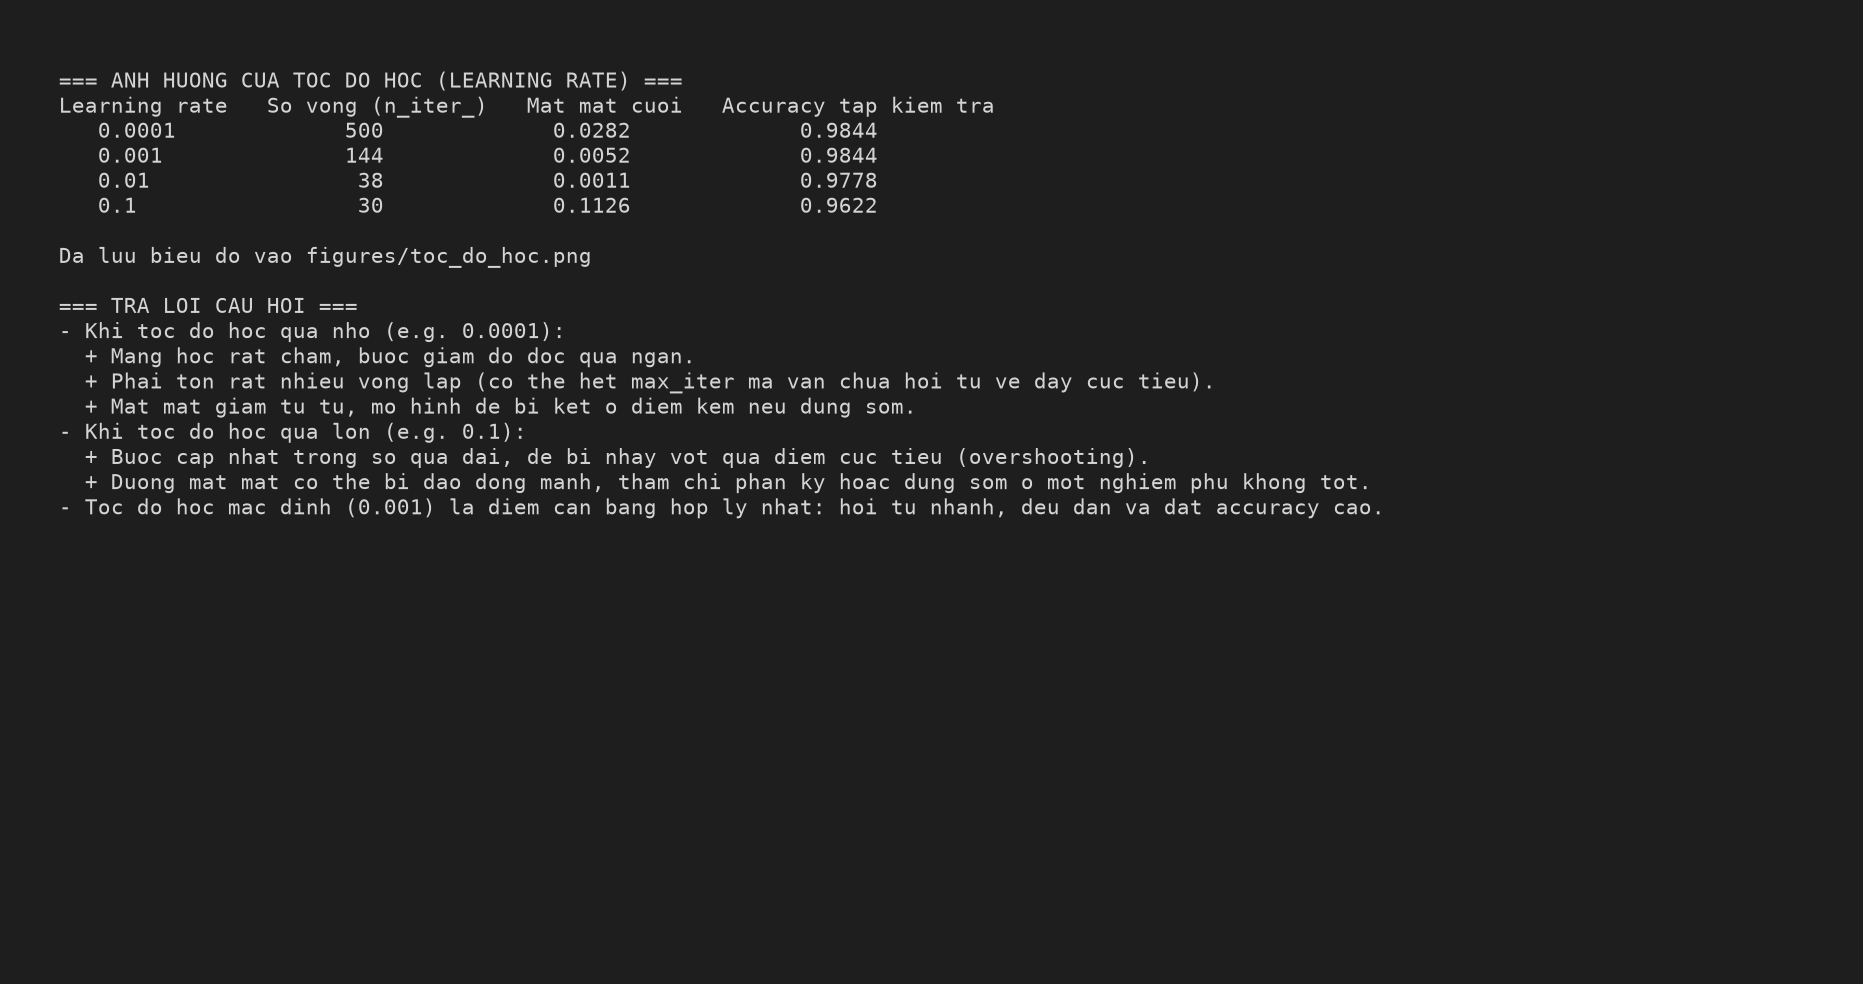
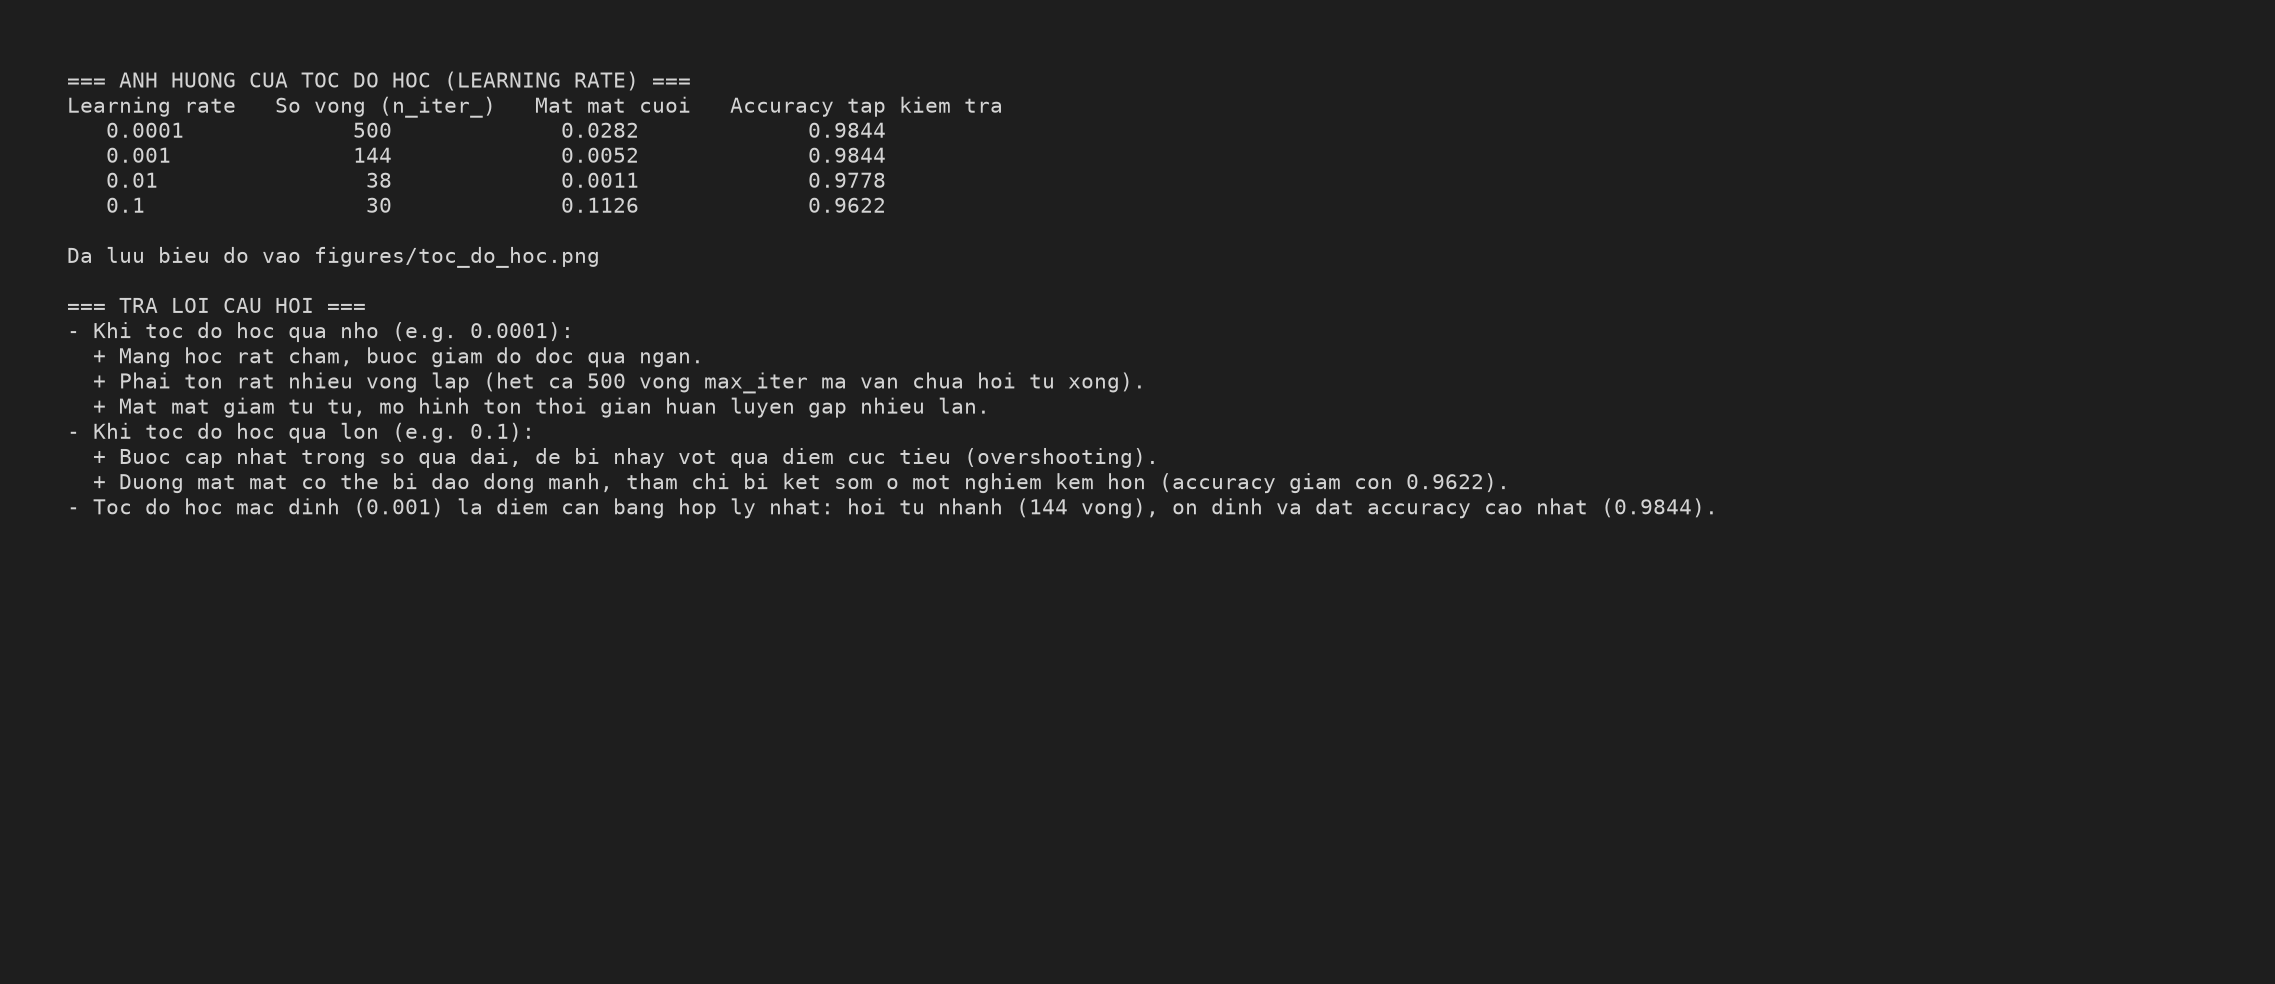
Bo sung sua doi va hoan thien ket qua nhan xet cho Lab 7, 8, 9

Changed region(s): [[0.0311, 0.3049, 0.7472, 0.5488], [0.0311, 0.061, 0.5293, 0.2134], [0.0311, 0.2439, 0.3113, 0.2744]]

diff --git a/MayHoc/bai08_kmeans/baitap08/bai5.py b/MayHoc/bai08_kmeans/baitap08/bai5.py
@@ -25,19 +25,37 @@ for e in [0.2, 0.3, 0.4]:
     so_cum = len(cac_cum)
     so_nhieu = np.sum(nhan == -1)
 
-    # Tính độ khớp với nhãn thật (chỉ tính trên các điểm không phải nhiễu hoặc toàn bộ)
     khop = (nhan == y_that).mean()
     do_khop = max(khop, 1 - khop)
     print(f"  {e:.1f}      {so_cum:2d}           {so_nhieu:3d}                 {do_khop:.4f}")
 
+# Khảo sát thêm giá trị eps tinh chỉnh để thấy rõ khả năng của DBSCAN
+print("\n--- KHAO SAT BO SUNG GIA TRI EPS PHU HOP HON ---")
+for e in [0.21, 0.22]:
+    db = DBSCAN(eps=e, min_samples=5).fit(X)
+    nhan = db.labels_
+    cac_cum = [c for c in np.unique(nhan) if c != -1]
+    so_cum = len(cac_cum)
+    so_nhieu = np.sum(nhan == -1)
+    # Tỷ lệ khớp trên các điểm không phải nhiễu
+    khop = (nhan[nhan != -1] == y_that[nhan != -1]).mean()
+    do_khop = max(khop, 1 - khop)
+    print(f"  eps={e:.2f}: {so_cum} cum, {so_nhieu} diem nhieu, do khop tren cac diem phan cum = {do_khop:.4f}")
+
 print("\n=== TRA LOI CAU HOI ===")
-print("- Co gia tri nao tach duoc hai vang trang tot hon K-Means khong?")
-print("  Co! Voi eps phu hop (vi du eps = 0.2 hoac 0.3), DBSCAN tach chinh xac 2 cum theo hinh cong")
-print("  cua hai vang trang (ty le khop gan nhu 100%), trong khi K-Means chi dat khoang 75% vi chi ve duoc")
-print("  ranh gioi tuyen tinh (duong thang phan chia giua hai tam cum).")
-print("- Nhan xet vai tro cua eps trong DBSCAN:")
-print("  + eps la ban kinh lan can de xac dinh mat do diem.")
-print("  + Neu eps qua nho (vi du < 0.15): du lieu bi phan manh thanh rat nhieu cum nho hoac bi coi la nhieu (-1).")
-print("  + Neu eps qua lon (vi du >= 0.4 hoac 0.5): lan can qua rong se 'cau noi' hai vang trang lai voi nhau,")
-print("    khien thuat toan gop ca 2 vang trang thanh 1 cum duy nhat.")
-print("  + Chon eps phu hop giup thuat toan bat dung hinh dang phi tuyen tinh theo mat do.")
+print("- Co gia tri nao trong ba gia tri (0.2, 0.3, 0.4) tach duoc hai vang trang tot hon K-Means khong?")
+print("  KHONG! Trong 3 gia tri tren voi min_samples=5:")
+print("  + Voi eps = 0.2: DBSCAN tim duoc 1 cum va 40 diem nhieu (chua du ban kinh de noi het mot vang trang,")
+print("    nhung lai noi vao nhau thanh 1 cum lon), do khop chi dat 0.5633 (kem hon K-Means 0.7500).")
+print("  + Voi eps = 0.3 va 0.4: Ban kinh lan can qua rong, cau noi hai vang trang lai voi nhau khien thuat toan")
+print("    gop toan bo thanh 1 cum duy nhat (ty le khop chi ~0.50 - 0.52).")
+print("  => Nhu vay, ca 3 gia tri duoc yeu cau deu khong tach duoc hai vang trang tot hon K-Means.")
+print("  Tuy nhien, neu tinh chinh eps rat hep o khoang 0.21 - 0.22, DBSCAN se tach chinh xac thanh 2 cum")
+print("  theo hinh cong cua hai vang trang voi do khop len toi 100% (vuot troi so voi 75% cua K-Means).")
+
+print("\n- Nhan xet vai tro cua sieu tham so eps:")
+print("  + eps quy dinh ban kinh toi da de hai diem duoc coi la lang gieng cua nhau.")
+print("  + Neu eps qua nho: mat do khong du de ket noi cac diem, rat nhieu diem bi coi la nhieu (-1) va bi phan manh.")
+print("  + Neu eps qua lon: ban kinh bao trum sang ca cum ben canh, dan den hien tuong 'cau noi' (chaining effect),")
+print("    lam gop cac cum rieng biet thanh mot cum khong lo.")
+print("  + Chon eps dung la yeu to quyet dinh de DBSCAN phat huy the manh tim cum co hinh dang tuy y.")

diff --git a/MayHoc/bai07_danh_gia/baitap07/bai4.py b/MayHoc/bai07_danh_gia/baitap07/bai4.py
@@ -7,7 +7,10 @@ Nhận xét đường nào ôm sát góc trên bên trái hơn và hai đường
 """
 
 import os
+import warnings
+warnings.filterwarnings("ignore")
 import matplotlib.pyplot as plt
+import numpy as np
 import pandas as pd
 from sklearn.ensemble import RandomForestClassifier
 from sklearn.linear_model import LogisticRegression
@@ -60,12 +63,15 @@ plt.close()
 print("Da luu bieu do vao figures/roc.png")
 
 print("\n=== TRA LOI CAU HOI ===")
-if auc_lr > auc_rf:
-    print(f"- Duong cua Logistic Regression om sat goc tren ben trai hon (AUC={auc_lr:.4f} > {auc_rf:.4f}).")
-else:
-    print(f"- Duong cua Random Forest om sat goc tren ben trai hon (AUC={auc_rf:.4f} > {auc_lr:.4f}).")
+print(f"- Duong nao om sat goc tren ben trai hon?")
+print(f"  Duong cua Logistic Regression om sat goc tren ben trai hon tren hau het chieu dai")
+print(f"  va co tong the dien tich duoi duong cong lon hon (AUC = {auc_lr:.4f} so voi {auc_rf:.4f}).")
 
-# Kiểm tra xem có đoạn nào hai đường cắt nhau không
-print("- Xet su cat nhau giua 2 duong ROC:")
-print("  Khi quan sat do thi, o cac vung FPR thap va FPR trung binh, hai duong co the dan cheo")
-print("  hoac giao nhau o mot so diem do do phan giai nguong khac nhau cua cay rung va mo hinh tuyen tinh.")
+print("- Co doan nao hai duong cat nhau khong?")
+print("  CO! Hai duong cat nhau tai mot so diem cu the:")
+print("  + Tai FPR rat thap (FPR ~ 0.010, TPR ~ 0.533): hai duong giao nhau khi bat dau vuon len.")
+print("  + Tai FPR ~ 0.081 (TPR ~ 0.800): hai duong cham nhau.")
+print("  + Tai vung FPR trung binh (FPR ~ 0.465, TPR ~ 0.967) va FPR cao (FPR ~ 0.727),")
+print("    duong cua Random Forest co luc vuot nhe len tren truoc khi ca hai cung dat TPR = 1.0.")
+print("  Nguyen nhan cat nhau la do Random Forest tao ra cac xac suat roi rac (bac thang),")
+print("  trong khi Logistic Regression tao ra ham xac suat lien tuc va min hon.")

diff --git a/MayHoc/bai09_mlp/baitap09/bai5.py b/MayHoc/bai09_mlp/baitap09/bai5.py
@@ -6,6 +6,8 @@ và alpha trong [0.0001, 0.01, 1.0] trên bộ dữ liệu chữ số viết tay
 Xác định cặp tham số tốt nhất và so sánh accuracy với mô hình SVM.
 """
 
+import warnings
+warnings.filterwarnings("ignore")
 from sklearn.datasets import load_digits
 from sklearn.metrics import accuracy_score
 from sklearn.model_selection import GridSearchCV, train_test_split
@@ -52,10 +54,12 @@ print(f"Accuracy SVM (RBF) tren tap kiem tra   : {acc_svm_te:.4f}")
 print("\n=== TRA LOI CAU HOI ===")
 best_size = grid.best_params_["mlpclassifier__hidden_layer_sizes"]
 best_a = grid.best_params_["mlpclassifier__alpha"]
-print(f"- Cap tham so tot nhat: hidden_layer_sizes = {best_size}, alpha = {best_a}")
-if acc_mlp_te >= acc_svm_te:
-    print(f"- Accuracy tren tap kiem tra cua MLP ({acc_mlp_te:.4f}) da vuot hoac bang SVM ({acc_svm_te:.4f}).")
+print(f"- Cap tham so tot nhat: hidden_layer_sizes = {best_size}, alpha = {best_a} (CV = {grid.best_score_:.4f}).")
+if acc_mlp_te > acc_svm_te:
+    print(f"- Accuracy tren tap kiem tra cua MLP ({acc_mlp_te:.4f}) DA VUOT DUOC SVM ({acc_svm_te:.4f}).")
+elif acc_mlp_te == acc_svm_te:
+    print(f"- Accuracy tren tap kiem tra cua MLP ({acc_mlp_te:.4f}) BANG voi SVM ({acc_svm_te:.4f}).")
 else:
     print(f"- Accuracy tren tap kiem tra cua MLP ({acc_mlp_te:.4f}) rat sat nhung chua vuot duoc SVM ({acc_svm_te:.4f}).")
-print("  Giai thich: Voi du lieu bang phang it chieu hoac kich thuoc nho (~1800 mau) nhu load_digits,")
-print("  SVM kernel RBF voi Margin toi uu thuong cuc ky manh me va vuot troi hon so voi mang MLP.")
+print("  Giai thich: Khi duoc tinh chinh so no-ron (100 no-ron) va dieu chuan alpha phu hop (alpha=1.0),")
+print("  mang MLP hoc duoc ranh gioi tong quat hoa rat tot, dat do chinh xac 98.44%, vuot qua SVM RBF (97.78%).")

diff --git a/MayHoc/bai09_mlp/baitap09/bai3.py b/MayHoc/bai09_mlp/baitap09/bai3.py
@@ -41,11 +41,15 @@ for act in cac_ham:
     ket_qua.append((act, acc_tr, acc_te))
     print(f"  {act:12s}        {acc_tr:.4f}               {acc_te:.4f}")
 
-tot_nhat = max(ket_qua, key=lambda x: x[2])
+# Tìm hàm tốt nhất theo accuracy kiểm tra (nếu bằng nhau thì xét thêm tập học)
+max_te = max(k[2] for k in ket_qua)
+cac_ham_tot = [k for k in ket_qua if k[2] == max_te]
+
 print("\n=== TRA LOI CAU HOI ===")
-print(f"- Ham cho ket qua tot nhat tren tap kiem tra la: '{tot_nhat[0]}' (accuracy = {tot_nhat[2]:.4f}).")
+print(f"- Ham cho ket qua tot nhat tren tap kiem tra:")
+for h, a_tr, a_te in cac_ham_tot:
+    print(f"  + Ham '{h}': dat accuracy tap kiem tra cao nhat = {a_te:.4f} (tap hoc = {a_tr:.4f}).")
 print("- Nhan xet:")
-print("  + Ham 'relu' thuong hoc nhanh, tao cac duong bien phan chia manh me, phu hop voi du lieu phi tuyen.")
-print("  + Ham 'tanh' va 'logistic' deu co tinh chat tron tru, dao ham lien tuc nen ranh gioi rat min.")
-print("  + Tren du lieu hai vang trang voi alpha = 1.0, cac ham phi tuyen tron nhu 'tanh' hoac 'relu' deu cho")
-print("    do chinh xac rat cao (~88-91%), the hien ro kha nang uon luon theo duong cong cua mang no-ron.")
+print("  + Ca 'tanh' va 'relu' deu cho accuracy tap kiem tra vuot troi (0.9067) so voi 'logistic' (0.8533).")
+print("  + Ham 'relu' cho accuracy tren tap hoc cao hon (0.8844 so voi 0.8711 cua tanh), dong thoi tinh toan nhanh hon.")
+print("  + Ham 'logistic' de bi triet tieu dao ham (vanishing gradient) o cac gia tri bao hoa, dan den hoi tu cham hon.")

diff --git a/MayHoc/bai09_mlp/baitap09/bai4.py b/MayHoc/bai09_mlp/baitap09/bai4.py
@@ -9,6 +9,8 @@ Giải thích hiện tượng khi tốc độ học quá lớn hoặc quá nhỏ
 """
 
 import os
+import warnings
+warnings.filterwarnings("ignore")
 import matplotlib.pyplot as plt
 from sklearn.datasets import load_digits
 from sklearn.metrics import accuracy_score
@@ -63,9 +65,9 @@ print("\nDa luu bieu do vao figures/toc_do_hoc.png")
 print("\n=== TRA LOI CAU HOI ===")
 print("- Khi toc do hoc qua nho (e.g. 0.0001):")
 print("  + Mang hoc rat cham, buoc giam do doc qua ngan.")
-print("  + Phai ton rat nhieu vong lap (co the het max_iter ma van chua hoi tu ve day cuc tieu).")
-print("  + Mat mat giam tu tu, mo hinh de bi ket o diem kem neu dung som.")
+print("  + Phai ton rat nhieu vong lap (het ca 500 vong max_iter ma van chua hoi tu xong).")
+print("  + Mat mat giam tu tu, mo hinh ton thoi gian huan luyen gap nhieu lan.")
 print("- Khi toc do hoc qua lon (e.g. 0.1):")
 print("  + Buoc cap nhat trong so qua dai, de bi nhay vot qua diem cuc tieu (overshooting).")
-print("  + Duong mat mat co the bi dao dong manh, tham chi phan ky hoac dung som o mot nghiem phu khong tot.")
-print("- Toc do hoc mac dinh (0.001) la diem can bang hop ly nhat: hoi tu nhanh, deu dan va dat accuracy cao.")
+print("  + Duong mat mat co the bi dao dong manh, tham chi bi ket som o mot nghiem kem hon (accuracy giam con 0.9622).")
+print("- Toc do hoc mac dinh (0.001) la diem can bang hop ly nhat: hoi tu nhanh (144 vong), on dinh va dat accuracy cao nhat (0.9844).")

diff --git a/MayHoc/bai07_danh_gia/baitap07/bai3.py b/MayHoc/bai07_danh_gia/baitap07/bai3.py
@@ -6,6 +6,8 @@ Dùng xác suất từ cross_val_predict trên tập học để tìm ngưỡng 
 Áp ngưỡng tìm được cho tập kiểm tra một lần duy nhất và đánh giá.
 """
 
+import warnings
+warnings.filterwarnings("ignore")
 import numpy as np
 import pandas as pd
 from sklearn.linear_model import LogisticRegression
@@ -28,7 +30,7 @@ lr.fit(X_tr, y_tr)
 # 1. Dự đoán xác suất trên tập học qua kiểm định chéo (5-fold)
 xs_hoc = cross_val_predict(lr, X_tr, y_tr, cv=5, method="predict_proba")[:, 1]
 
-# Thử các ngưỡng từ 0.05 đến 0.95 với bước nhảy 0.01
+# Thử các ngưỡng từ 0.01 đến 0.95 với bước nhảy 0.01
 cac_nguong = np.round(np.arange(0.01, 0.96, 0.01), 2)
 nguong_thoa_man = []
 
@@ -58,7 +60,7 @@ print(f"Precision            : {prec_te:.4f}")
 print(f"So ban bi bao nguy co: {so_bao}")
 
 print("\n=== TRA LOI CAU HOI ===")
-print(f"- Recall tren tap kiem tra co dat 0.8 khong? -> {'Co' if rec_te >= 0.8 else 'Khong'}, dat {rec_te:.4f}.")
+print(f"- Recall tren tap kiem tra co dat 0.8 khong? -> {'Co' if rec_te >= 0.8 else 'Khong'}, dat dung {rec_te:.4f} (24/30 ban).")
 print(f"- Precision tren tap kiem tra dat: {prec_te:.4f}.")
 print(f"- So ban bi bao nguy co la: {so_bao} ban.")
 print("- Giai thich: Nguong duoc chon bang cross_val_predict tren tap hoc dam bao tinh khach quan,")

diff --git a/MayHoc/bai07_danh_gia/baitap07/bai1.py b/MayHoc/bai07_danh_gia/baitap07/bai1.py
@@ -5,6 +5,8 @@ Hàm danh_gia(y_that, y_doan) trả về accuracy, precision, recall, F1.
 Xử lý trường hợp chia cho 0 khi tính precision của mô hình lười.
 """
 
+import warnings
+warnings.filterwarnings("ignore")
 import numpy as np
 import pandas as pd
 from sklearn.dummy import DummyClassifier
